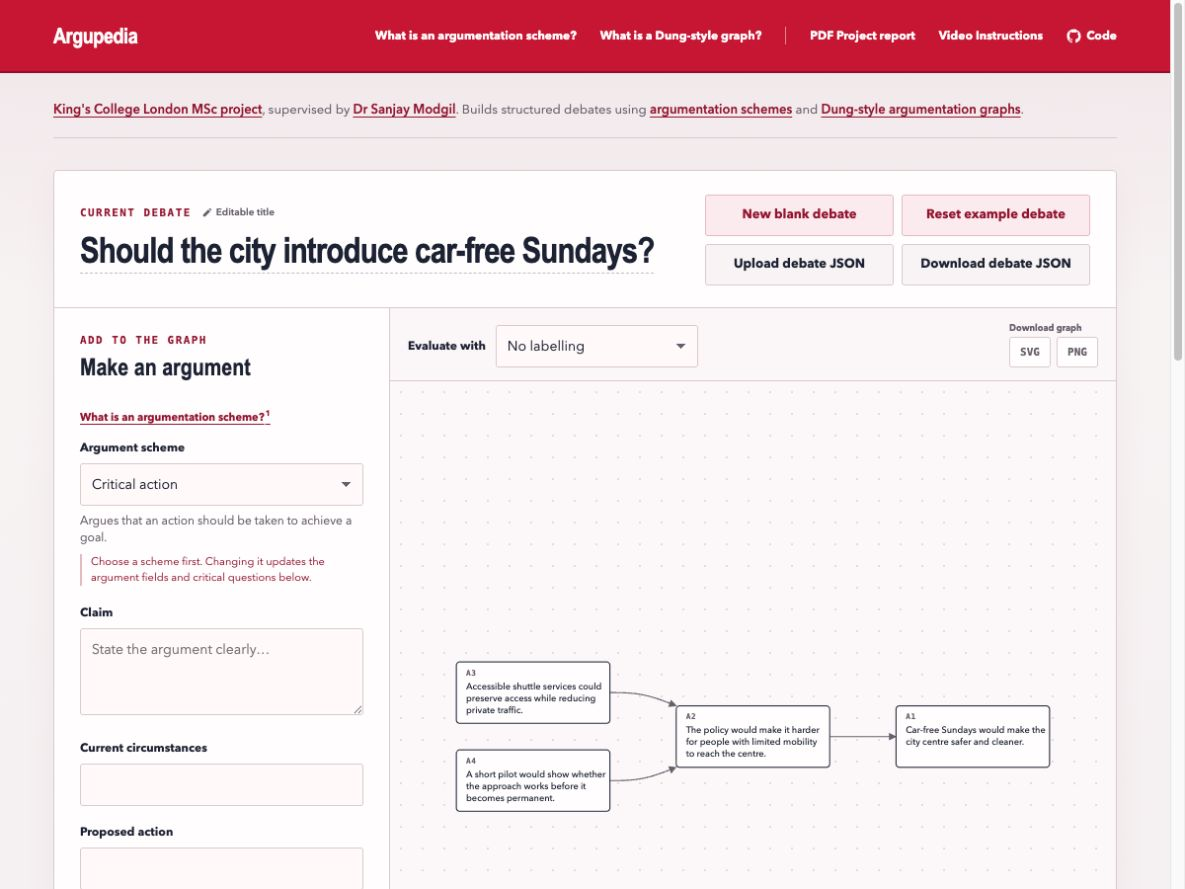
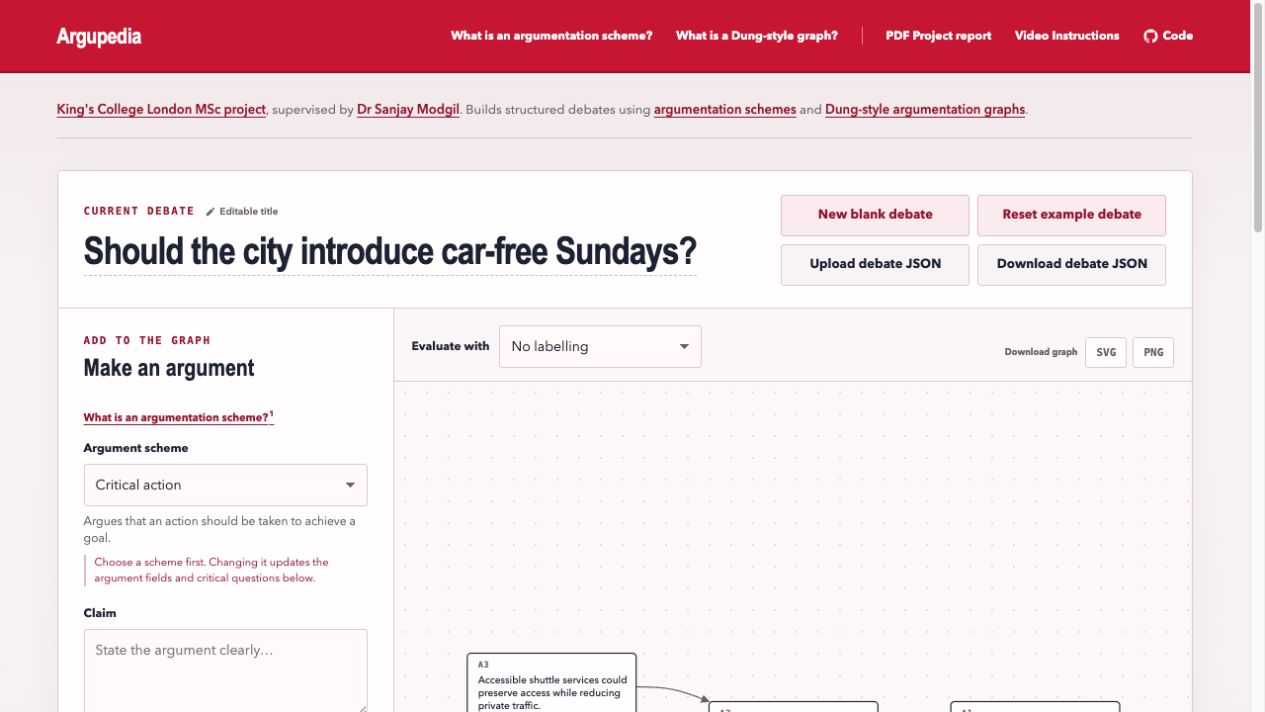
Align graph download controls

diff --git a/src/styles.css b/src/styles.css
@@ -93,8 +93,8 @@ select { appearance: none; background-image: linear-gradient(45deg,transparent 5
 .graph-actions { display: flex; align-items: center; margin-left: auto; }
 .graph-view-controls { position: absolute; right: 15px; bottom: 15px; z-index: 2; display: flex; align-items: center; gap: 9px; padding: 5px 6px 5px 10px; background: rgba(255,255,255,.94); border: 1px solid var(--line); border-radius: 3px; box-shadow: 0 2px 8px rgba(21,34,56,.07); }
 .graph-control-divider { align-self: stretch; width: 1px; background: var(--line); }
-.graph-export-controls { display: grid; grid-template-columns: repeat(2, 42px); gap: 4px 6px; }
-.graph-export-controls > span { grid-column: 1 / -1; color: var(--muted); font-size: 9px; font-weight: 650; line-height: 1; white-space: nowrap; }
+.graph-export-controls { display: flex; align-items: center; gap: 6px; }
+.graph-export-controls > span { margin-right: 2px; color: var(--muted); font-size: 9px; font-weight: 650; line-height: 1; white-space: nowrap; }
 .graph-export-controls .icon-button { height: 31px; }
 .graph-hint { align-self: center; margin-right: 4px; color: var(--muted); font-size: 10px; white-space: nowrap; }
 .icon-button { height: 37px; min-width: 42px; color: var(--muted); background: var(--white); border: 1px solid var(--line); border-radius: 3px; cursor: pointer; font: 700 11px/1 var(--mono); }
